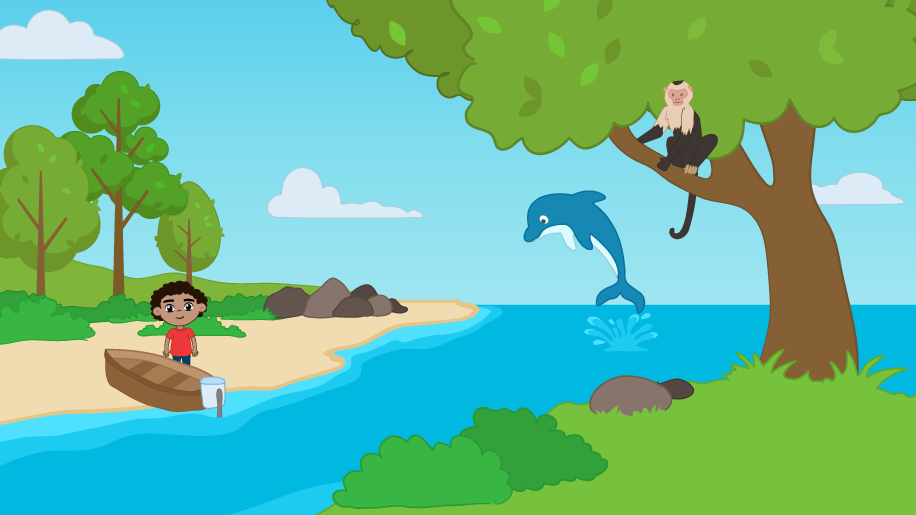
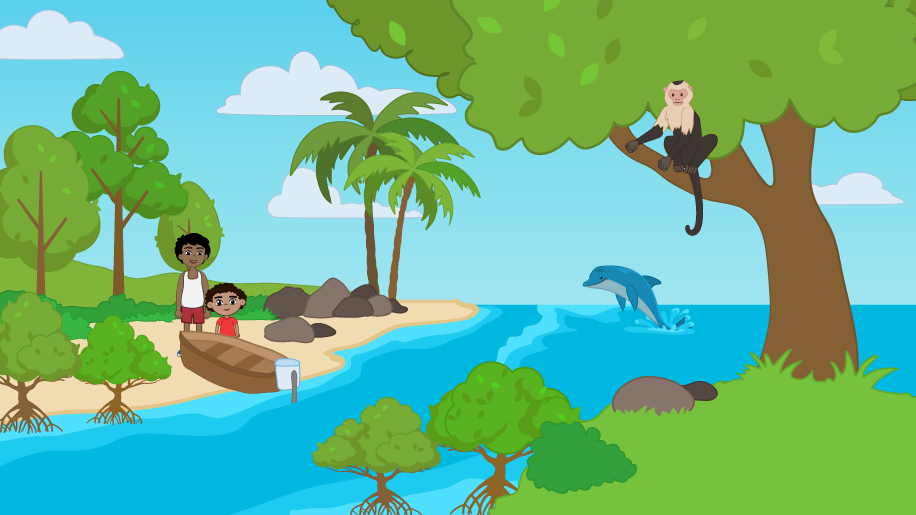
maquete de actividad organos lab03
- maquete lab03 organos
- actualización imágenes lab01
- borrado de imágenes de muestra

diff --git a/tercer-grado/index.html b/tercer-grado/index.html
@@ -59,7 +59,7 @@
 
 <!--La digestión-->
     <div id="digestion" class="container" v-show="page === 1">
-      <a class="activity300-cycle-go-back" v-show="page !== 0" @click="goBack()"><img src="../images/Lab2/lab02-btn-regresar.svg" alt=""></a>
+      <a class="activity300-cycle-go-back" v-show="page !== 0" @click="goBack()"><img src="../images/Lab2/lab02-btn-regresar.svg" alt="botón de Regresar al menú"></a>
       <div class="row">
         <div class="col-sm-6">
           <h2 class="activity300title">La Digestión</h2>
@@ -73,13 +73,50 @@
 
 <!--Organos-->
     <div id="organos" class="container" v-show="page === 2">
-      <a class="activity300-cycle-go-back" v-show="page !== 0" @click="goBack()"><img src="../images/Lab2/lab02-btn-regresar.svg" alt=""></a>
+      <a class="activity300-cycle-go-back" v-show="page !== 0" @click="goBack()"><img src="../images/Lab2/lab02-btn-regresar.svg" alt="botón de Regresar al menú"></a>
+
+      <h2 class="activity300title">Órganos del sistema digestivo</h2>
       <div class="row">
-        <div class="col-sm-6">
-          <h2 class="activity300title">Órganos del sistema digestivo</h2>
-          <p class="activity300-instructions">Seleccioná un órgano para saber cuál es su función</p>
+        <div class="col-4 descripcion">
+          <div class="boca">
+            <img src="../images/lab3/cuidados/lab03-sli-flecha-der.png" alt="ilustración del órgano del sistsema digestivo: Boca">
+            <h3>Boca</h3>
+            <p>Es el lugar de entrada de los alimentos al organismo. En ella se encuentran los dientes que con ayuda de las glándulas salivales y la lengua  trituran los alimentos.</p>
+          </div>
+          
+<!--        <h3>Faringe</h3>
+            <p>Canal que permite la comunicación entre la boca y el esófago. También forma parte del sistema respiratorio.</p>
+          
+            <h3>Esófago</h3>
+            <p>Es un tubo que se encarga de transportar el bolo alimenticio de la faringe al estómago.</p>
+          
+            <h3>Estómago</h3>
+            <p>Es una bolsa musculosa en forma de J. En él se secreta el jugo gástrico.</p>
+          
+            <h3>Hígado</h3>
+            <p>Es un órgano que segrega bilis, una sustancia que ayuda a digerir las grasas.</p>
+         
+            <h3>Páncreas</h3>
+            <p>Es un órgano que segrega jugo pancreático, el cual ayuda en la digestión de azúcares, grasas y proteínas.</p>
+          
+            <h3>Intestino delgado</h3>
+            <p>Es donde se produce la mayor parte de la digestión, ya que junto con la bilis y el jugo pancreático, se encarga de absorber los nutrientes de los alimentos.</p>
+          
+            <h3>Intestino grueso</h3>
+            <p>Es un tubo grueso y corto que rodea al intestino delgado. Se encarga de expulsar los residuos al exterior del cuerpo.</p> -->
+          </div>
+
+        <div class="col-3 organos-menu">
+          <div class="btn-boca">Boca</div>
+          <div class="btn-faringe">Faringe</div>
+          <div class="btn-esofago">Esófago</div>
+          <div class="btn-estomago">Estómago</div>
+          <div class="btn-higado">Hígado</div>
+          <div class="btn-pancreas">Páncreas</div>
+          <div class="btn-delgdo">Intestino delgado</div>
+          <div class="btn-grueso">Intestino grueso</div>
         </div>
-        <div class="col-sm-6">
+        <div class="col-5">
           <img src="../images/lab3/lab03-fig.svg" alt="exploratoria" class="img-fluid">
         </div>
       </div> 
@@ -88,7 +125,7 @@
 
 <!--Proceso-->
     <div id="proceso" class="container" v-show="page === 3">
-      <a class="activity300-cycle-go-back" v-show="page !== 0" @click="cleanActivity(true)"><img src="../images/Lab2/lab02-btn-regresar.svg" alt=""></a>
+      <a class="activity300-cycle-go-back" v-show="page !== 0" @click="cleanActivity(true)"><img src="../images/Lab2/lab02-btn-regresar.svg" alt="botón de Regresar al menú"></a>
       <div class="row">
         <div class=" col-6">
           
@@ -140,7 +177,7 @@
   </div>
   <!--Cuidados-->
     <div id="cuidados" class="container" v-show="page === 4">
-      <a class="activity300-cycle-go-back" v-show="page !== 0" @click="cleanActivity(true)"><img src="../images/Lab2/lab02-btn-regresar.svg" alt=""></a>
+      <a class="activity300-cycle-go-back" v-show="page !== 0" @click="cleanActivity(true)"><img src="../images/Lab2/lab02-btn-regresar.svg" alt="botón de Regresar al menú"></a>
       <h2 class="activity300title">Cuidados del sistema digestivo</h2>
       <div class="row activity300-cuidados-intro">
         <div class="col-md-5">

diff --git a/css/activity3.css b/css/activity3.css
@@ -320,6 +320,36 @@ margin-top: 20px;
   z-index: 1;
 }
 
+#organos .descripcion{
+  padding: 80px 20px 20px 20px;
+}
+
+#organos .descripcion div{
+  background: #C7E7EB;
+  color: #1F4C8C;
+  text-align: center;
+  padding: 20px;
+  font-size: 1.3em;
+  font-weight: bold;
+  border-radius: 15px;
+  margin-bottom: 5px;
+}
+
+#organos .descripcion div h3{
+  font-size: 1.4em;
+  font-weight: bold;
+}
+
+#organos .organos-menu div{
+  margin-top: 20px;
+}
+#organos .organos-menu div{
+  text-align: right;
+  margin-bottom: 20px;
+  font-size: 22px;
+}
+
+
 @media (min-width: 992px){
 
 .activity300 .activity300-cuidados-intro {
